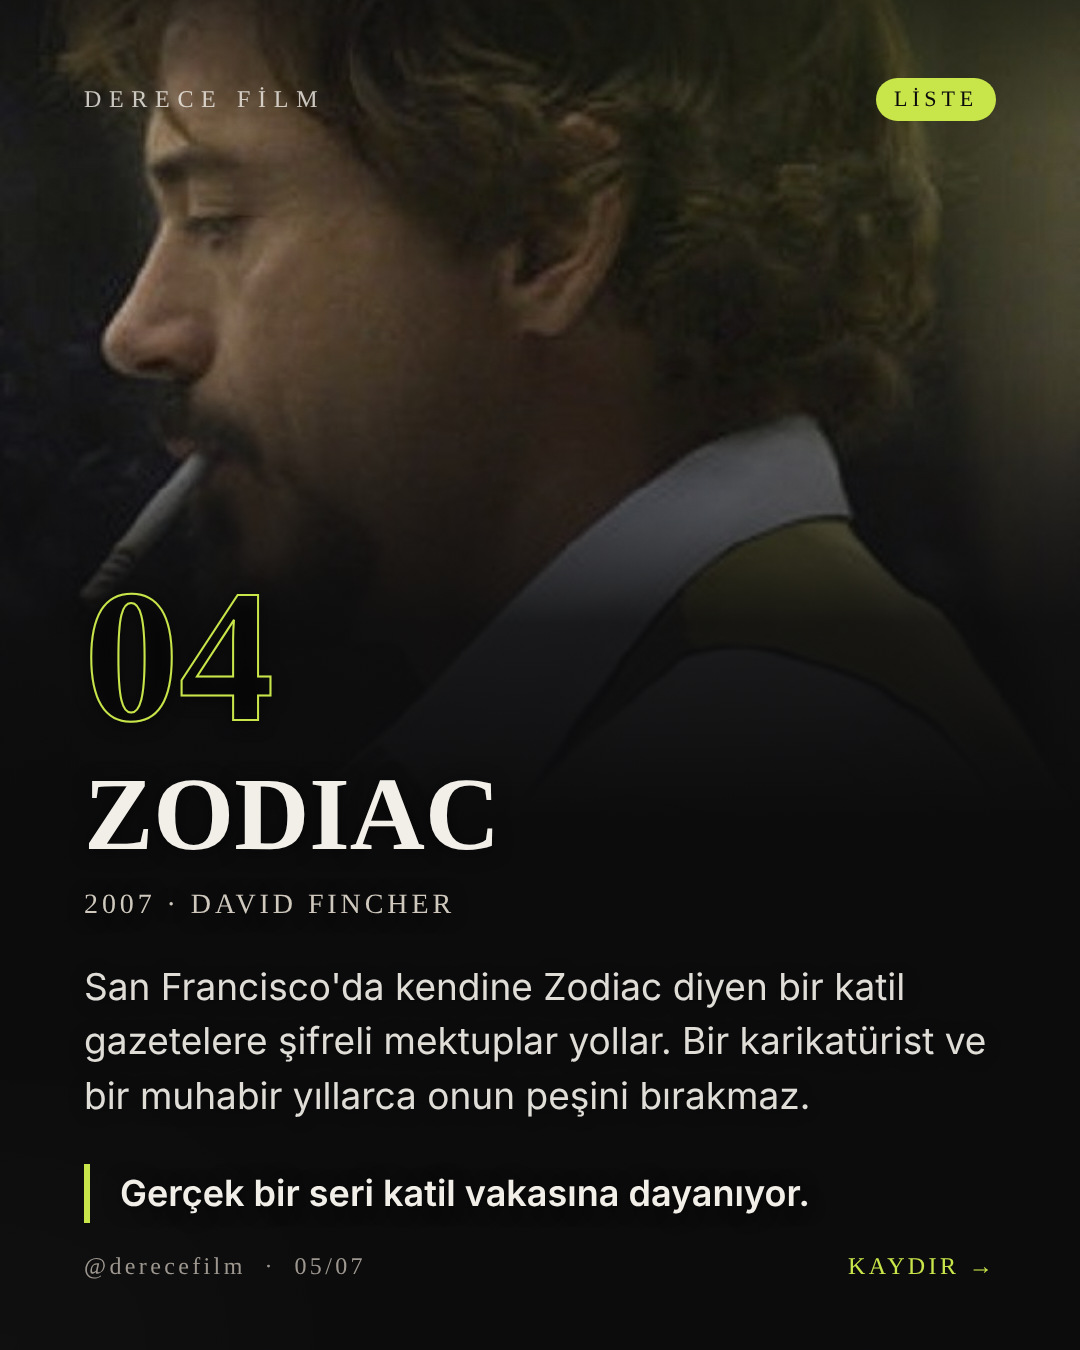
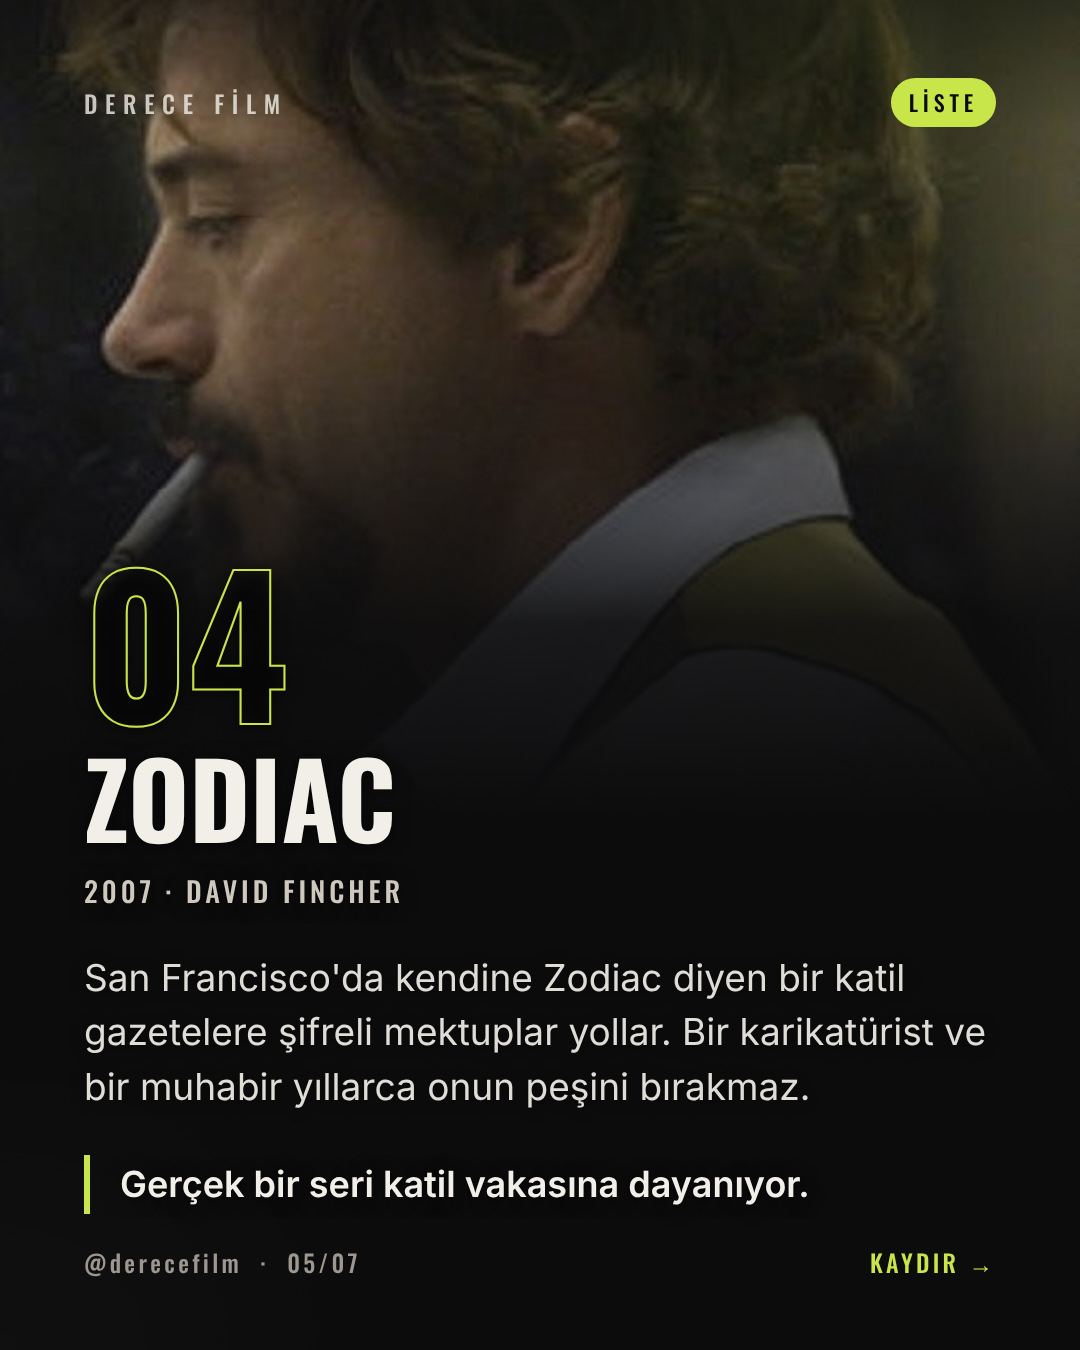
Liste kapağı: tam sayfa fotoğraf, yeni kapak yazısı (hero), yazı tipleri; kapak/slayt görselleri
Claude-Session: https://claude.ai/code/session_01F63NNHC8iB2a7tkNnssvi3

diff --git a/tools/render.py b/tools/render.py
@@ -160,6 +160,16 @@ body.solid .cta div{{border-color:#111;color:#111}}
 .arrow{{font-family:Oswald;font-size:40px;color:var(--a);text-align:center;margin:-6px 0}}
 .pwhy{{margin-top:30px;font-family:Inter;font-weight:500;font-size:36px;line-height:1.42}}
 .pwhy b{{color:var(--a)}}
+/* kapak (hero) */
+.ph.full.herophoto::after{{background:linear-gradient(180deg,rgba(0,0,0,.5) 0%,rgba(0,0,0,0) 16%,rgba(0,0,0,.05) 38%,rgba(0,0,0,.78) 64%,rgba(0,0,0,.96) 100%)}}
+.hero{{margin-top:auto;padding-bottom:6px}}
+.hr-kick{{font-family:Oswald;font-weight:500;font-size:32px;letter-spacing:.32em;text-transform:uppercase;color:var(--a);margin-bottom:26px;display:flex;align-items:center;gap:20px}}
+.hr-kick::before{{content:'';width:64px;height:4px;background:var(--a)}}
+.hr-title{{font-family:Oswald;font-weight:700;font-size:116px;line-height:1;letter-spacing:.005em;text-transform:uppercase;color:#fff;text-shadow:0 6px 40px rgba(0,0,0,.55)}}
+.hr-title em{{font-style:normal;color:var(--a)}}
+.hr-bar{{width:150px;height:9px;background:var(--a);margin:34px 0 28px}}
+.hr-sub{{font-family:'Playfair Display';font-style:italic;font-weight:500;font-size:44px;line-height:1.3;color:#f2efe9;max-width:860px}}
+.hr-names{{font-family:Oswald;font-weight:400;font-size:27px;letter-spacing:.16em;text-transform:uppercase;color:rgba(242,239,233,.72);margin-top:34px;padding-top:24px;border-top:2px solid rgba(255,255,255,.22)}}
 /* tam fotoğraf */
 .fp-title{{font-family:'DM Serif Display';font-size:120px;line-height:1;letter-spacing:-.01em}}
 .fp-line{{font-family:Inter;font-weight:500;font-size:40px;line-height:1.38;margin-top:26px;max-width:880px;opacity:.92}}
@@ -335,6 +345,12 @@ def body_for(spec, s):
                 f'<div class="arrow">↓</div>'
                 f'<div class="pcard b" style="background-image:url({url(spec,b["img"])});background-position:{b.get("pos","center")}"><div class="in"><span class="tag">BUNU İZLE</span><div class="t" lang="en">{e(b["title"])}</div><div class="m" lang="en">{e(b["meta"])}</div></div></div>'
                 f'</div><div class="pwhy">{s["why"]}</div>')
+    if t == "hero":
+        names = " · ".join(e(x) for x in s.get("names", []))
+        nm = f'<div class="hr-names" lang="en">{names}</div>' if names else ""
+        return (f'<div class="hero"><div class="hr-kick">{e(s.get("kick",""))}</div>'
+                f'<div class="hr-title">{s["title"]}</div><div class="hr-bar"></div>'
+                f'<div class="hr-sub">{s.get("sub","")}</div>{nm}</div>')
     if t == "fullphoto":
         return (f'<div class="kick">{e(s.get("kick",""))}</div><div class="fp-title" lang="en">{s["title"]}</div>'
                 f'<div class="fp-line">{s.get("line","")}</div>')
@@ -431,8 +447,8 @@ def page(spec, s, idx, total):
             blur = s.get("blur", 0)
             gray = "grayscale(1) " if s.get("gray") else ""
             f = f"filter:{gray}blur({blur}px) brightness(.8);transform:scale(1.08);" if (blur or gray) else ""
-            full = " full" if s["type"] in ("fullphoto", "quote", "card") else ""
-            ph = f'<div class="ph{full}" style="background-image:url(file://{p});background-position:{s.get("pos","center")};{f}"></div>'
+            full = " full" if s["type"] in ("fullphoto", "hero", "quote", "card") else ""
+            ph = f'<div class="ph{full}{" herophoto" if s["type"]=="hero" else ""}" style="background-image:url(file://{p});background-position:{s.get("pos","center")};{f}"></div>'
     if s["type"] == "quote":
         extra_cls = "quote"
     if s["type"] == "card":

diff --git a/WEEKLY_TASK.md b/WEEKLY_TASK.md
@@ -7,7 +7,7 @@ Kullanıcı **tamamen otomatik** istedi: onay bekleme, hazırla ve zamanla; sonu
 ## 0. Hazırlık
 - Depo: `alibal123/Ali` (Claude'un yazma izni var). Klonla, `main` dalında çalış.
 - Kurulum: `pip install playwright pillow --break-system-packages` (gerekirse) ve
-  `npm i --prefix tools @fontsource/oswald @fontsource/inter @fontsource/playfair-display`.
+  `npm i --prefix tools @fontsource/oswald @fontsource/inter @fontsource/playfair-display @fontsource/courier-prime @fontsource/dm-serif-display` (HEPSİ şart; eksikse başlıklar yedek yazı tipiyle çıkar).
 - `schedule.json`, `history.json`, `specs/` klasöründeki önceki spec'leri oku (ton ve format için örnek).
 
 ## 0.5 Önce analiz et (Ali'nin isteği: tutan tarza ağırlık ver)
@@ -115,3 +115,4 @@ Sahne kareleri gerçek film kareleri olsun (TMDB/film-grab adresleri request.jso
   Bu sayfadaki backdroplar çoğunlukla afiş/başlık yazılıdır: `request.json`'a `/original/` adresiyle ekle, indirilince PIL ile yazı olmayan bölgeyi kırp
   (`assets/stills/lc_<ad>.jpg`), kontrol sayfasında yazı kalmadığından emin ol. Kapak kolajı ile film slaytı için aynı filmin FARKLI kareleri kullanılsın.
 - Örnek: `specs/2026-10-23_liste_gunlerce-pesini-birakmayan.json`.
+- Kapak için `"type":"hero"` slaytı kullan: tam sayfa fotoğraf (`img`, `pos`), `kick`, `title` (`<br>` ve `<em>` ile), `sub`, `names` (5 film adı).
